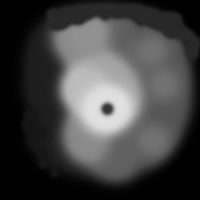
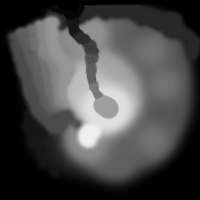
terrain texture shaders in but not working

Changed region(s): [[0.03, 0.0, 0.66, 0.75]]

diff --git a/SFML_BASIC/Terrain.cpp b/SFML_BASIC/Terrain.cpp
@@ -39,6 +39,7 @@ Terrain::Terrain(void)
 	terrDepth=50;
 	vertices=NULL;
 	colors=NULL;	
+	texturemap = NULL;
 	
 	//num squares in grid will be width*height, two triangles per square
 	//3 verts per triangle
@@ -52,6 +53,7 @@ Terrain::~Terrain(void)
 {
 	delete [] vertices;
 	delete [] colors;
+	delete [] texturemap;
 }
 
 //interpolate between two values
@@ -85,7 +87,7 @@ float  Terrain::getHeight(float x, float y){
 	return dist;
 }
 float  Terrain::getHeight2(float y){
-	return y / 20;
+	return y / 10;
 }
 
 void Terrain::Init(){
@@ -94,27 +96,13 @@ void Terrain::Init(){
 	vertices=new vector[numVerts];
 	delete [] colors;
 	colors=new vector[numVerts];
+	delete [] texturemap;
+	texturemap =new vector[numVerts];
+
 	if (!m_heightmap.loadFromFile("map2.png"))
 	{
 		cout << "height did not load " << endl;
 	}
-	if (!water.loadFromFile("water.png"))
-	{
-		// error...
-		cout << "water did not load " << endl;
-	}
-	if (!grass.loadFromFile("grass.png"))
-	{
-    // error...
-		cout << "grass did not load  " << endl;
-	}
-	if (!snow.loadFromFile("snow.png"))
-	{
-    // error...
-		cout << "snow did not load " << endl;
-
-	}
-	
 
 	//interpolate along the edges to generate interior points
 	for(int i=0;i<gridWidth-1;i++){ //iterate left to right
@@ -147,25 +135,32 @@ void Terrain::Init(){
 				 */
 			//tri1
 		
-			setPoint(colors[vertexNum],0,FRONTLEFT,0);
+			setPoint(colors[vertexNum],FRONTLEFT,0,0);
+			setPoint(texturemap[vertexNum],0, 1,0);
 			setPoint(vertices[vertexNum++],left,getHeight2(FRONTLEFT),front);
 
-			setPoint(colors[vertexNum],0,FRONTRIGHT,0);
+			
+			setPoint(colors[vertexNum],FRONTRIGHT,0,0);
+			setPoint(texturemap[vertexNum],1, 1,0);
 			setPoint(vertices[vertexNum++],right,getHeight2(FRONTRIGHT),front);
 
-			setPoint(colors[vertexNum],0,BACKRIGHT,0);
+			setPoint(colors[vertexNum],BACKRIGHT,0,0);
+			setPoint(texturemap[vertexNum],1, 0,0);
 			setPoint(vertices[vertexNum++],right,getHeight2(BACKRIGHT),back);
 
 
 			//declare a degenerate triangle
 			//TODO: fix this to draw the correct triangle
-			setPoint(colors[vertexNum],0,FRONTLEFT,0);
+			setPoint(colors[vertexNum],0,0,FRONTLEFT);
+			setPoint(texturemap[vertexNum],0, 1,0);
 			setPoint(vertices[vertexNum++],left,getHeight2(FRONTLEFT),front);
 
-			setPoint(colors[vertexNum],0,BACKRIGHT,0);
+			setPoint(colors[vertexNum],0,0,BACKRIGHT);
+			setPoint(texturemap[vertexNum],1, 0,0);
 			setPoint(vertices[vertexNum++],right,getHeight2(BACKRIGHT),back);
 
-			setPoint(colors[vertexNum],0,BACKLEFT,0);
+			setPoint(colors[vertexNum],0,0,BACKLEFT);
+			setPoint(texturemap[vertexNum],0, 0,0);
 			setPoint(vertices[vertexNum++],left,getHeight2(BACKLEFT),back);
 			
 			//float average = (leftcol.r + leftcol.g + leftcol.b) / 3;
@@ -198,8 +193,11 @@ void Terrain::Draw(){
 	glBegin(GL_TRIANGLES);
 	for(int i =0;i<numVerts;i++)
 	{
+		//glTexCoord2d(texturemap[i][0],texturemap[i][1]);
 		glColor3fv(colors[i]);
 		glVertex3fv(vertices[i]);
+		
+ 
 	}
 	glEnd();
 

diff --git a/SFML_BASIC/main.cpp b/SFML_BASIC/main.cpp
@@ -45,16 +45,35 @@ int main()
       
     //prepare OpenGL surface for HSR 
     glClearDepth(1.f); 
-    glClearColor(0.3f, 0.3f, 0.6f, 0.f); //background colour
+    glClearColor(0.5f, 0.5f, 0.5f, 0.f); //background colour
     glEnable(GL_DEPTH_TEST); 
     glDepthMask(GL_TRUE); 
    
     //// Setup a perspective projection & Camera position 
     glMatrixMode(GL_PROJECTION); 
+	
     glLoadIdentity(); 
      
     //set up a 3D Perspective View volume
     gluPerspective(90.f, (float)width/height, 1.f, 300.0f);//fov, aspect, zNear, zFar 
+
+	sf::Texture grass , snow , water;
+	if (!water.loadFromFile("water.png"))
+	{
+		// error...
+		cout << "water did not load " << endl;
+	}
+	if (!grass.loadFromFile("grass.png"))
+	{
+    // error...
+		cout << "grass did not load  " << endl;
+	}
+	if (!snow.loadFromFile("snow.png"))
+	{
+    // error...
+		cout << "snow did not load " << endl;
+
+	}
 
 
 	//load & bind the shader
@@ -62,7 +81,12 @@ int main()
 	//all the lighting & texture blending code should  be put in 'fragment.glsl'
 	if(!shader.loadFromFile("vertex.glsl","fragment.glsl")){
         exit(1);
-    }
+    }	
+	shader.setParameter("waterTexture",water);
+	shader.setParameter("grassTexture",grass);
+	shader.setParameter("snowTexture",snow);
+
+
 	sf::Shader::bind(&shader);
 
 	//Create our Terrain

diff --git a/SFML_BASIC/Terrain.h b/SFML_BASIC/Terrain.h
@@ -12,6 +12,10 @@ class Terrain
 	//I know, very inefficient, but let's run before we walk
 	vector *vertices;
 	vector *colors;
+	vector *texturemap;
+
+	//std::vector<float> textureX;
+	//std::vector<float> textureY;
 
 	float getHeight(float x, float y);
 	float getHeight2(float y);
@@ -20,7 +24,8 @@ class Terrain
 	bool wireMap;
 
 	sf::Image m_heightmap;
-	sf::Texture grass , snow , water;
+	/*sf::Texture grass , snow , water;*/
+	
 	
 public:
 	Terrain(void);
